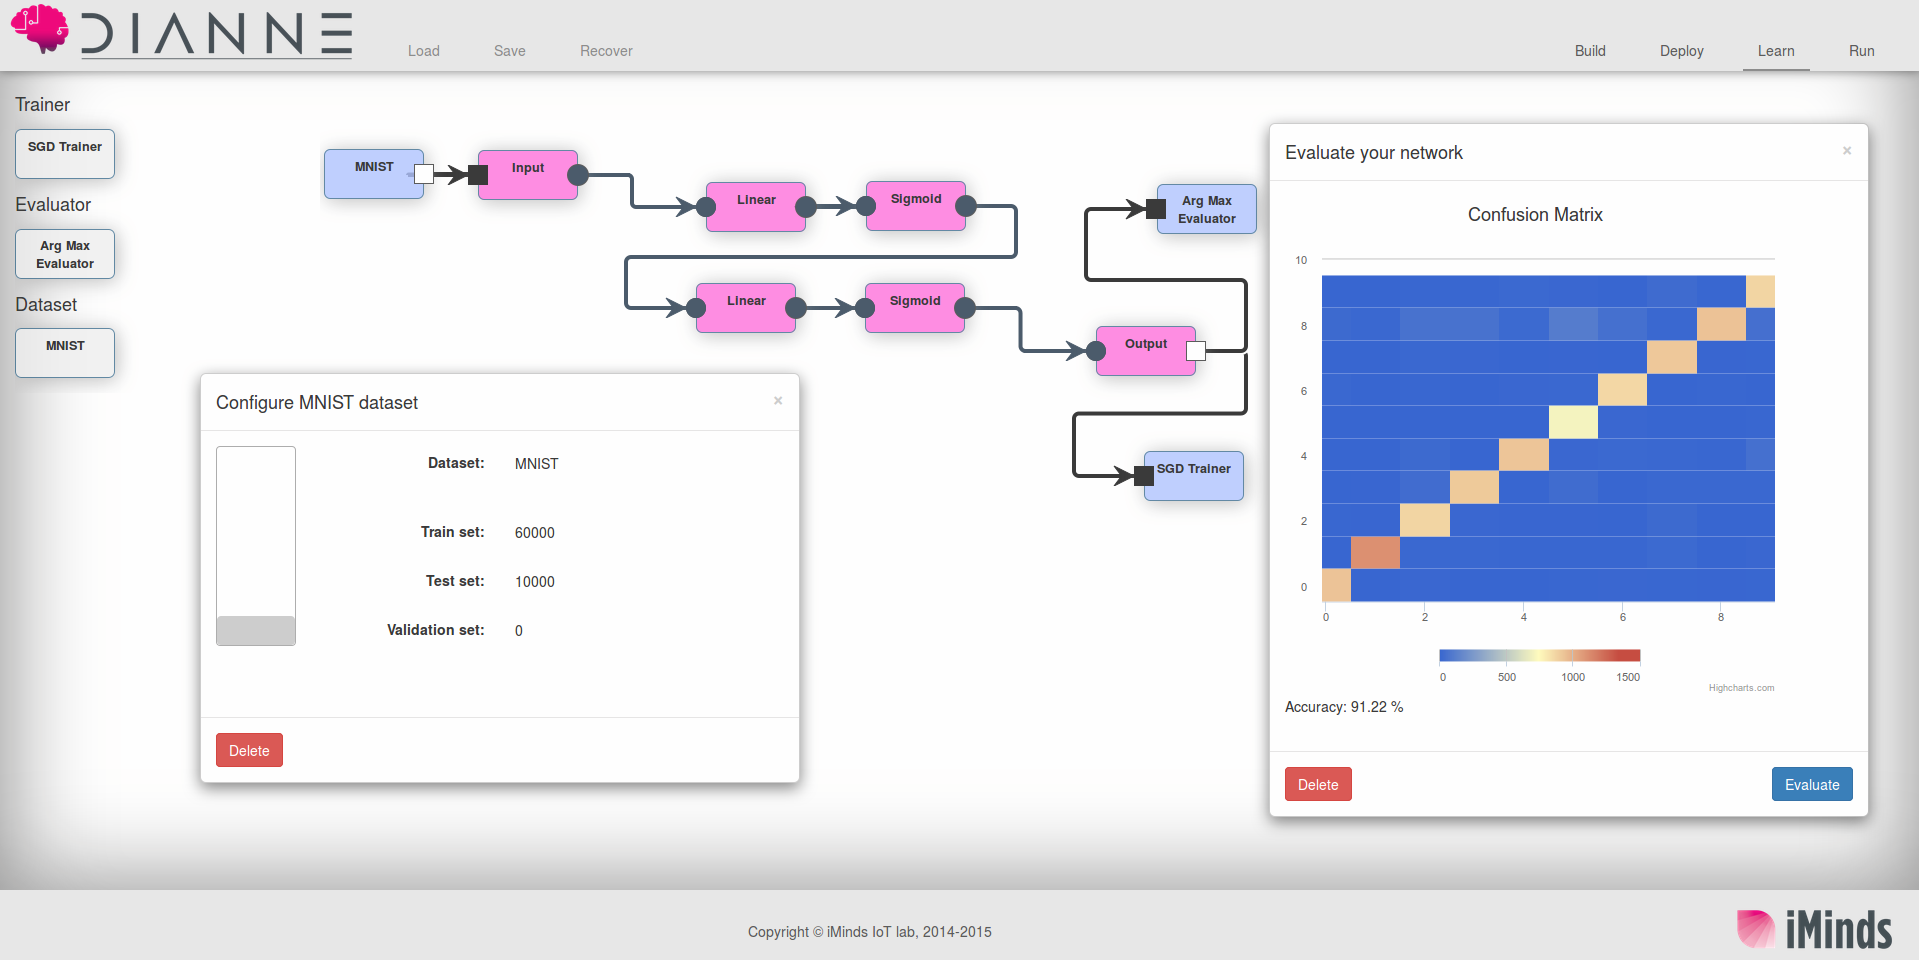
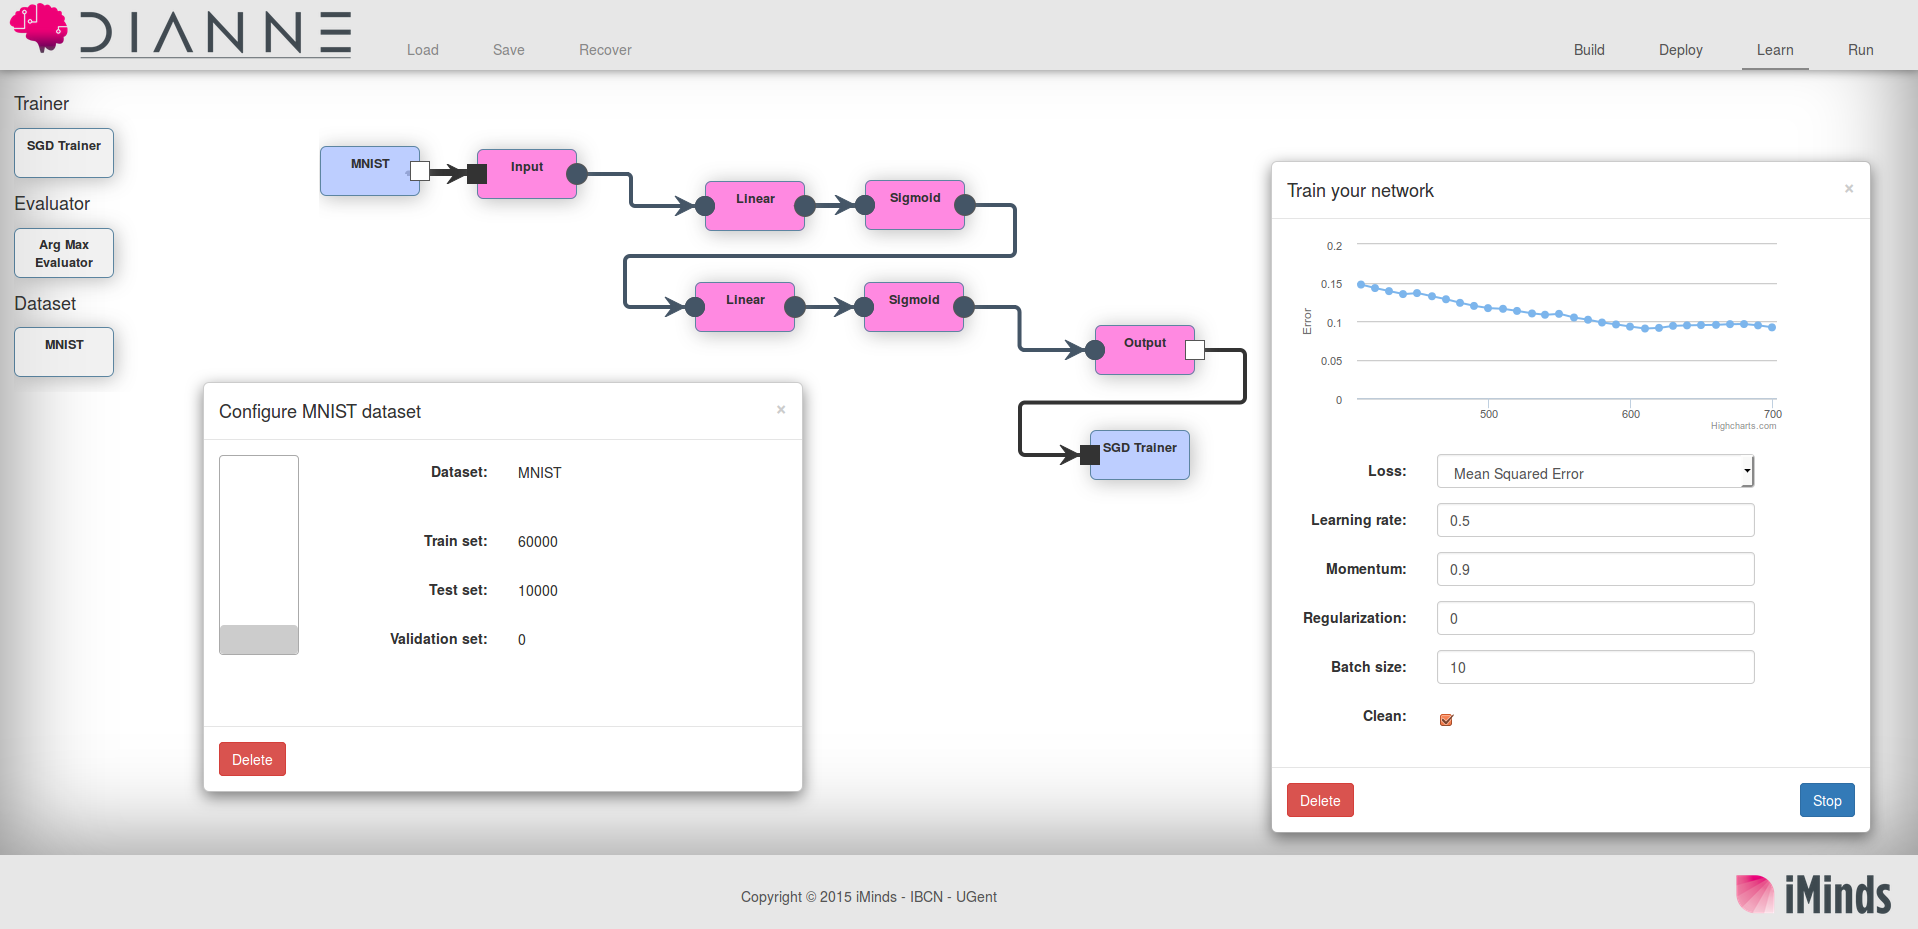
update tutorial figures

diff --git a/doc/tutorial.md b/doc/tutorial.md
@@ -13,7 +13,7 @@ or [OpenJDK](http://openjdk.java.net/)
 
 - [Apache Ant](http://ant.apache.org/) version 1.9 or higher 
 
-**Note**: At the moment we only have native code builds for Linux and Mac, Windows is currently not supported. Windows users can run DIANNE but have to use the Java tensor implementations (i.e. replacing `be.iminds.iot.dianne.tensor.th` by `be.iminds.iot.dianne.tensor.java` in each .bndrun file). The web UI is tested with the latest Firefox and Chrome browsers. 
+**Note**: At the moment we only have native code builds for Linux and Mac. To run the native code you might need to install **libgfortan3** on your machine. Windows is currently not supported. Windows users can run DIANNE but have to use the Java tensor implementations (i.e. replacing `be.iminds.iot.dianne.tensor.th` by `be.iminds.iot.dianne.tensor.java` in each .bndrun file). The web UI is tested with the latest Firefox and Chrome browsers. 
 
 To develop and build OSGi bundles, the [BND](http://www.aqute.biz/Bnd/Bnd) tool is used. 
 This is included in the git repository, so no additional download is required. Although
@@ -65,9 +65,11 @@ To deploy this neural network, go to the deploy mode by clicking the `Deploy` me
 
 ![The example MNIST neural network](figures/3.png)
 
- Right now this is only one, your local environment. To deploy the neural network modules, click on the `Local` runtime box, and next click `Deploy All`. You can also click the `Local` runtime box, and then click on each of the modules separately. Congratulations, you have just deployed your first neural network on DIANNE.
+ Right now this is only one, your local environment. To deploy the neural network modules, click on the `Local` runtime box, and next click `Deploy All`. You can also click the `Local` runtime box, and then click on each of the modules separately. 
 
 ![Deployed example MNIST neural network](figures/4.png)
+
+Congratulations, you have just deployed your first neural network on DIANNE.
 
 Now to see this neural network in action, click the `Run` menu item top right. You can skip the `Learn` tab for now since we already trained this neural network for you. In the `Run` tab, drag the `MNIST` dataset on the canvas and connect it to the `Input` module. Similarly select an `Output probabilities` block and connect the `Output` module to it:
 
@@ -84,33 +86,33 @@ You can now go ahead and build and train your own neural network. To clear the c
 
 To build your own neural network, drag and drop modules from the toolbox onto the canvas. You can scroll down the toolbox list, and you can (un)collapse categories by clicking on the category title.  Connect the modules together such that you start with an `Input` module and end with an `Output` module, for example:
 
-![The example MNIST neural network](figures/3.png)
+![The example MNIST neural network](figures/7.png)
 
 Next, configure the modules by double clicking on them. Both the `Linear` modules need to be configured with an input and output size. Since we are working with the MNIST dataset, which is consists of 28x28 single channel images, the input of the first `Linear` is 28 x 28 = 784. The output is the number of hidden neurons we would like, for example 40.
 
-![Configure first Linear](figures/7.png)
+![Configure first Linear](figures/8.png)
 
 The second `Linear` module will then take 40 inputs, and the output will be the number of output classes, in the case of MNIST this is 10.
 
-![Configure second Linear](figures/8.png)
+![Configure second Linear](figures/9.png)
 
 Now deploy this neural network. When hitting the `Deploy` menu item, you will first be asked to save this neural network. Just give it a name you like
 
-![Save your neural network](figures/9.png)
+![Save your neural network](figures/10.png)
 
 Now click the `Learn` menu item to train your neural network. Start by adding an `MNIST` dataset and connecting this to your `Input`. Double clicking the dataset allows you to select how many samples will be used for training and how many will be used for testing. 
 
 To convince yourself that the neural network is actually not trained at all, connect an `Arg Max Evaluator`, double click on it and click `evaluate`. From the confusion matrix you can see that the neural network is not yet trained.
 
-![Untrained network](figures/10.png)
+![Untrained network](figures/11.png)
 
 Now connect an `SGD Trainer` block to the `Output` and open the training dialog by double clicking on it. The default parameters should suffice for this example, so click `Train`. Now the training procedure should start and you should see how the error decreases as training proceeds. 
 
-![Training your neural network](figures/11.png)
+![Training your neural network](figures/12.png)
 
 Click `Stop` when you are satisfied with the training. After a few minutes of training, your network should be able to reach over 90 per cent accuracy. Run the `Arg Max Evaluator` again. The confusion matrix should now highlight the diagonal meaning that the neural network performs good.
 
-![Evaluating the trained network](figures/12.png)
+![Evaluating the trained network](figures/13.png)
 
 To convince yourself even further, you can go ahead to the `Run` tab and see the outputs for individual samples.
 
